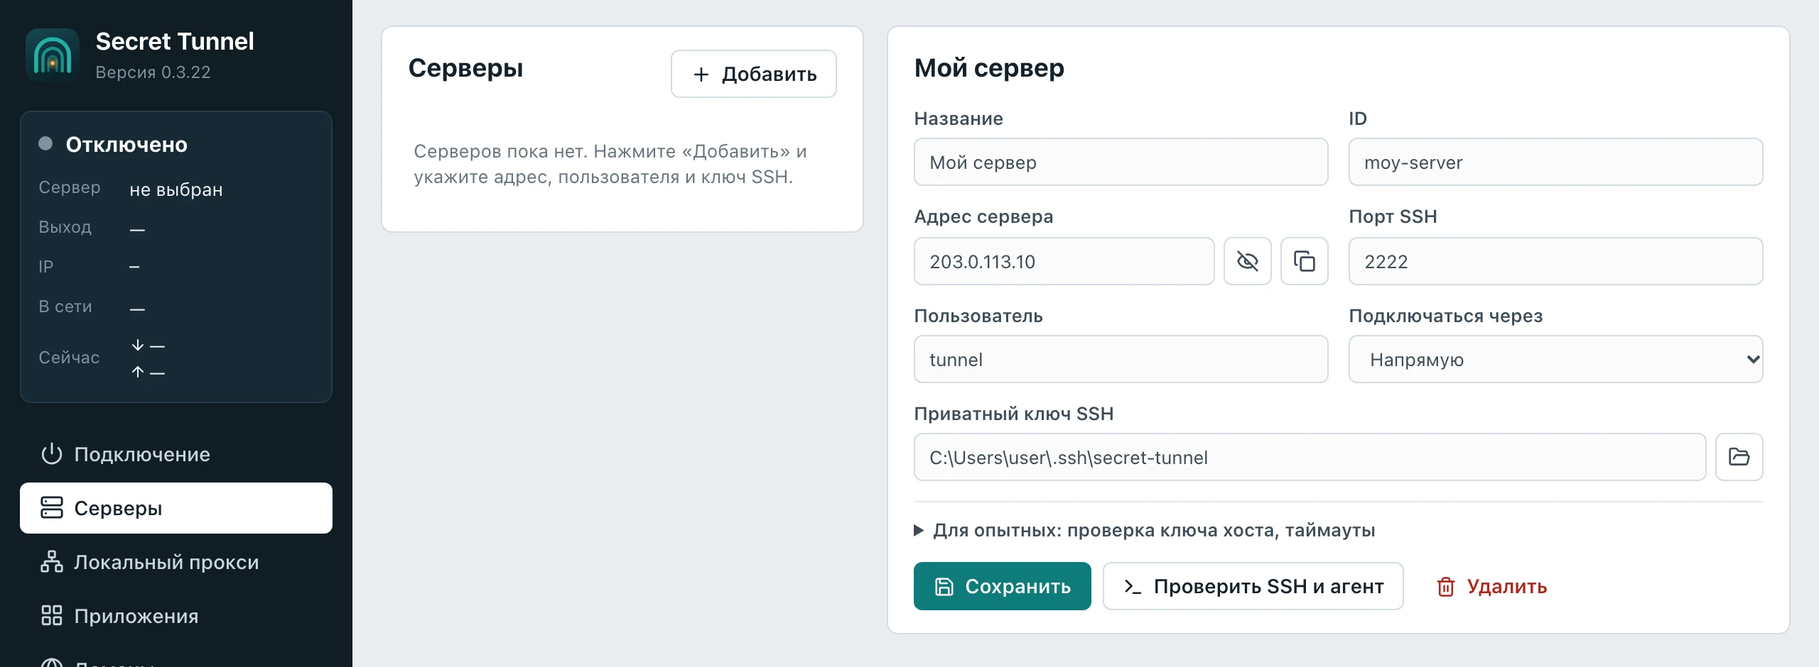
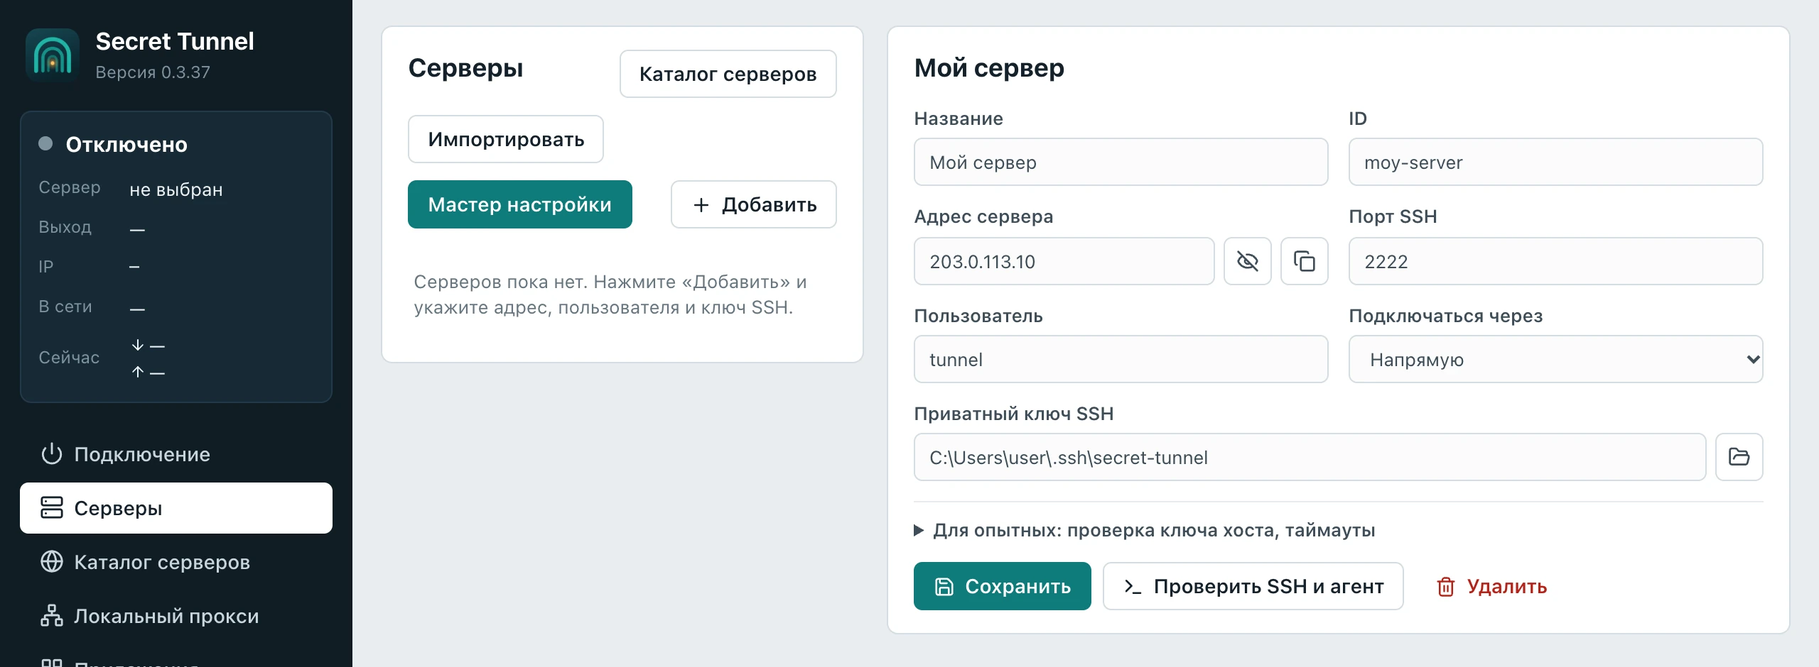
Site from 5c2a27e

diff --git a/knowledge.html b/knowledge.html
@@ -44,9 +44,11 @@
         <li class="group">Начало</li>
         <li><a href="#start">Как это устроено</a></li>
         <li><a href="#server">Сервер</a></li>
+        <li><a href="#hosting-catalog">Каталог серверов</a></li>
         <li><a href="#keys">SSH-ключ</a></li>
         <li><a href="#agent">Агент на сервере</a></li>
         <li><a href="#host-key">Отпечаток сервера</a></li>
+        <li><a href="#profile-transfer">Перенос серверов</a></li>
         <li class="group">Компьютер</li>
         <li><a href="#first-connection">Первое подключение</a></li>
         <li><a href="#servers">Серверы и цепочки</a></li>
@@ -102,6 +104,14 @@
         </ul>
       </article>
 
+      <article class="doc" id="hosting-catalog" data-keywords="хостер провайдер каталог тариф цена VPS пинг задержка страна флаг">
+        <h2><a href="#hosting-catalog">Каталог серверов</a></h2>
+        <p>«Каталог серверов» на компьютере и «Каталог» на Android/Android TV помогает сравнить локации и перейти на сайт хостера. В мастере он открывается через «Пока нет сервера». Флаг обозначает страну сервера; страна компании указана отдельно в подробностях.</p>
+        <p>«Проверить задержку» делает пять коротких TCP-подключений из текущей сети. Результат — медиана, а не ICMP-пинг, скорость передачи или гарантия качества VPS. При включённом туннеле приложения замер недоступен. Перед его остановкой закройте защищаемые программы; другой VPN тоже может влиять на маршрут.</p>
+        <p>Карточка без тестового узла остаётся с ценой и характеристиками, но без задержки. Сайт компании не используется вместо VPS. «Подробнее» показывает источник, дату, налоги, доплаты и ограничения трафика. Отсутствие TCP-ответа не означает недоступность VPS.</p>
+        <p>Семь провайдеров обновляются ежедневно из официальных API и страниц. При отказе источника сохраняются предыдущие факты и дата; ошибки каталога не меняют SSH-профили. «Сайт хостера» открывает заказ у провайдера, а «Сервер уже куплен — настроить SSH» возвращает в мастер. Используйте данные именно купленного сервера. <a href="guide.html#hosting-catalog">Порядок выбора с иллюстрацией</a>.</p>
+      </article>
+
       <article class="doc" id="keys" data-keywords="ssh-keygen ed25519 ключ authorized_keys ssh-copy-id wsl windows команды публичный приватный">
         <h2><a href="#keys">SSH-ключ</a></h2>
         <p>Создайте ключ на компьютере. На вопрос о пароле ключа дважды нажмите Enter. macOS и Linux, Терминал:</p>
@@ -138,7 +148,7 @@ cd st-agent</code></pre></li>
 
       <article class="doc" id="host-key" data-keywords="отпечаток fingerprint known_hosts host key подлинность сервера проверка ключа хоста отклонил">
         <h2><a href="#host-key">Отпечаток сервера</a></h2>
-        <p>Приложение проверяет, что подключается к вашему серверу, а не к подменённому. На компьютере используются записи из <code>~/.ssh/known_hosts</code> — те же, что у обычного <code>ssh</code>. Проще всего один раз зайти на сервер из Терминала и подтвердить ключ.</p>
+        <p>Приложение сверяет ключ SSH-сервера при подключении. «Мастер настройки» сохраняет подтверждённый вами отпечаток в профиле сервера. Профили на компьютере без сохранённого отпечатка используют записи из <code>~/.ssh/known_hosts</code>, как обычный <code>ssh</code>.</p>
         <p>Отпечаток можно сверить на самом сервере:</p>
         <pre><code>ssh-keygen -lf /etc/ssh/ssh_host_ed25519_key.pub</code></pre>
         <p>Режим проверки задаётся в профиле сервера: «Строго» (рекомендуется), «Запомнить новый» — доверить ключу при первом входе, «Не проверять» — только для отладки. На Android отпечаток показывается при первом подключении и сохраняется после вашего подтверждения.</p>
@@ -148,6 +158,7 @@ cd st-agent</code></pre></li>
 
       <article class="doc" id="first-connection" data-keywords="первое подключение начать добавить сервер подключить кнопка">
         <h2><a href="#first-connection">Первое подключение</a></h2>
+        <p>Начать можно с кнопки «Мастер настройки» на экране «Серверы». На Android откройте «Ещё» → «Серверы». Укажите адрес, SSH-порт, пользователя и пароль из письма хостера или выберите приватный ключ без парольной фразы. Сверьте отпечаток сервера в панели хостера и подтвердите его. Мастер проверит вход по ключу и агент. Результаты каждого этапа появятся в журнале мастера, а при ошибке можно исправить данные и повторить попытку.</p>
         <ol>
           <li>Откройте «Серверы» и нажмите «Добавить». Укажите адрес, порт SSH, пользователя и выберите файл приватного ключа.</li>
           <li>Нажмите «Проверить SSH и агент»: приложение войдёт на сервер и проверит агента.</li>
@@ -168,6 +179,19 @@ cd st-agent</code></pre></li>
         </table>
         <p>Список серверов покажет маршрут «SSH-шлюз → Тестовый сервер». Сохраните отдельные профили, если нужно переключаться между прямым подключением и подключением через шлюз.</p>
         <p class="note">Промежуточный сервер добавляет ещё один сетевой участок. Сравните задержку и скорость обоих маршрутов на вкладке <a href="#speed">«Скорость»</a>.</p>
+      </article>
+
+      <article class="doc" id="profile-transfer" data-keywords="перенос импорт экспорт поделиться qr куар код ссылка файл флешка android tv ключ шифрование">
+        <h2><a href="#profile-transfer">Перенос серверов между устройствами</a></h2>
+        <p>В тестовой версии откройте <b>«Серверы» → «Поделиться»</b> у сохранённого сервера. Цепочка включает промежуточные серверы, их ключи и подтверждённые отпечатки. Настройки приложений, правила блокировки трафика и другие предпочтения устройства не переносятся.</p>
+        <table>
+          <tr><th>QR-код</th><td>На телефоне или iPad откройте «Серверы» → «Импортировать» → «Сканировать QR-код». Если большой ключ или цепочка не помещаются в QR, используйте ссылку или файл.</td></tr>
+          <tr><th>Ссылка</th><td>Скопируйте зашифрованную ссылку. На другом устройстве вставьте её в «Импортировать». Мобильное приложение также открывает ссылки <code>secrettunnel://import#stp1.…</code>.</td></tr>
+          <tr><th>Файл</th><td>Сохраните <code>.stprofile</code>. На Android TV подключите флешку и выберите «Серверы» → «Импортировать» → «Открыть файл».</td></tr>
+        </table>
+        <p>Сохраните <b>код переноса</b> отдельно. Он не входит в файл, ссылку и QR-код и исчезает при закрытии окна экспорта. На получателе введите код, проверьте список и нажмите «Добавить серверы». Существующие профили сохранятся; новые получат отдельные ключевые файлы или записи Keystore.</p>
+        <p>Все данные, включая приватные ключи, зашифрованы AES-256-GCM. Argon2id выводит ключ из случайного 20-символьного кода; Base64URL используется для записи шифротекста в ссылку. Перенос не требует сервиса обмена: шифрование, сканирование и расшифровка выполняются на устройствах.</p>
+        <p class="note">Файл или ссылка вместе с кодом дают доступ к SSH-ключу. Передавайте их только доверенному получателю. Перенос создаёт копию ключа: при его отзыве на сервере перестанут работать все копии. Для независимого отзыва создайте отдельный ключ устройства.</p>
       </article>
 
       <article class="doc" id="proxy" data-keywords="локальный прокси socks5 порт 1080 браузер настройка вручную">

diff --git a/guide.html b/guide.html
@@ -54,6 +54,7 @@
         <li class="group">Сервер</li>
         <li><a href="#ssh">Как работает SSH</a></li>
         <li><a href="#need">Что понадобится</a></li>
+        <li><a href="#hosting-catalog">Каталог серверов</a></li>
         <li><a href="#terminal">1. Открыть терминал</a></li>
         <li><a href="#login">2. Войти по паролю</a></li>
         <li><a href="#key">3. Создать ключ</a></li>
@@ -100,8 +101,24 @@
           <li><b>Данные от хостера</b>: IP-адрес, логин (обычно <code>root</code>) и пароль. Обычно они приходят письмом или лежат в панели управления.</li>
           <li><b>Компьютер</b>: macOS 15 или новее, Windows 10 или 11. Для Linux приложения пока нет, но сервер с Linux настраивается так же, как с macOS, — шаги 1–7.</li>
         </ul>
+        <p>Для уже купленного сервера откройте «Серверы» → «Мастер настройки». На Android и iOS этот экран находится в разделе «Ещё». Мастер принимает готовый ключ либо создаёт отдельный ключ после входа по логину и паролю, предлагает подтвердить отпечаток сервера и проверяет агент. Если агент отсутствует, мастер предложит установить его. Ход настройки и ошибки отображаются в журнале мастера.</p>
+        <p>Если сервер уже настроен на другом устройстве, начиная с версии 0.3.33 можно перенести его через <b>«Серверы» → «Поделиться»</b>: QR-кодом, ссылкой или зашифрованным файлом <code>.stprofile</code>. На принимающем устройстве выберите <b>«Импортировать»</b> и введите отдельный код переноса. Для Android TV сохраните файл на флешку и откройте его через системный выбор документов. <a href="knowledge.html#profile-transfer">Как защищён перенос и что в него входит</a>.</p>
         <p>Мы сделаем на сервере четыре вещи: вход по ключу вместо пароля, отдельного пользователя <code>tunnel</code> для туннеля, порт SSH <code>2222</code> вместо стандартного <code>22</code> и небольшой агент, через который пойдёт трафик.</p>
         <p class="note">Во всех командах вместо <code class="v-ip">203.0.113.10</code> должен стоять адрес вашего сервера. <span class="site-only">Впишите его в поле «Адрес сервера от хостера», и он подставится сам.</span></p>
+      </article>
+
+      <article class="doc" id="hosting-catalog">
+        <h2><a href="#hosting-catalog">Если VPS ещё нет: каталог серверов</a></h2>
+        <p>На компьютере откройте <b>«Каталог серверов»</b> в боковом меню; на Android — вкладку <b>«Каталог»</b>, на Android TV — одноимённый пункт меню. В мастере настройки нажмите <b>«Пока нет сервера»</b>. На мобильных устройствах «Статистика» находится в «Ещё».</p>
+        <ol>
+          <li>Выберите страну сервера. Флаг обозначает расположение VPS, а не страну компании. В карточке видны месячная цена, CPU, память, диск и заявленная скорость порта; налоги, доплаты и лимиты — в «Подробнее».</li>
+          <li>Закройте защищаемые приложения, затем остановите свой туннель перед замером. После остановки защита от прямого трафика может прекратиться. Нажмите <b>«Проверить задержку»</b>: приложение делает пять коротких TCP-подключений из текущей сети. Другой VPN может изменить результат. Это не ICMP-пинг и не проверка пропускной способности.</li>
+          <li>Включите <b>«Сначала с меньшей задержкой»</b> для сравнения. Если нет подтверждённого тестового узла, карточка остаётся с отметкой <b>«Нет узла / замер недоступен»</b>. Таймаут тестового порта не доказывает недоступность VPS.</li>
+          <li><b>«Сайт хостера»</b> открывает сайт провайдера. Покупка происходит у него; окончательные цены, наличие, условия доступа и оплаты проверьте перед заказом.</li>
+          <li>Получив фактические данные сервера, нажмите <b>«Сервер уже куплен — настроить SSH»</b>. Мастер продолжит с выбора способа входа. Публичные тестовые адреса не предназначены для настройки вашего SSH-подключения.</li>
+        </ol>
+        <figure class="shot"><img src="assets/guide/hosting-catalog.webp" width="1280" height="800" alt="Каталог серверов: фильтры стран, карточки хостеров, цены и проверка задержки"><figcaption>Пример интерфейса. Список и тарифы обновляются отдельно от приложения; скорость порта не гарантирует скорость SSH.</figcaption></figure>
+        <p>Каталог обновляется ежедневно из официальных источников. <b>«Обновить каталог»</b> загружает опубликованные данные. Ошибка сети или источника сохраняет последнюю корректную копию и дату проверки конкретного тарифа.</p>
       </article>
 
       <p class="part">Сервер</p>
@@ -336,8 +353,8 @@ PASS STMUX003: TCP half-close; empty/voice/51200-byte UDP; 24 isolated associati
       <article class="doc step" id="add-server">
         <h2><a href="#add-server">9. Добавьте сервер</a></h2>
         <p>Откройте вкладку «Серверы» и нажмите «Добавить».</p>
-        <figure class="shot" data-shot="server-form-mac" data-pins="36.89,11.06;71.33,24.34;95.23,24.34;65.08,39.06;95.23,39.06;71.33,53.78;92.73,53.78;92.11,68.5;96.95,68.5;50.23,87.9;77.2,87.9" data-os="mac linux"><img src="assets/guide/server-form-mac.webp" width="1280" height="470" alt="Вкладка «Серверы»: форма нового сервера с заполненными полями"></figure>
-        <figure class="shot" data-shot="server-form-win" data-pins="36.89,11.06;71.33,24.34;95.23,24.34;65.08,39.06;95.23,39.06;71.33,53.78;92.73,53.78;92.11,68.5;96.95,68.5;50.23,87.9;77.2,87.9" data-os="win"><img src="assets/guide/server-form-win.webp" width="1280" height="470" alt="Вкладка «Серверы» в Windows: форма нового сервера с путём к ключу C:\Users\user\.ssh\secret-tunnel"></figure>
+        <figure class="shot" data-shot="server-form-mac" data-pins="45.10,30.64;70.77,24.34;94.67,24.34;65.14,39.06;94.67,39.06;70.77,53.78;94.67,53.78;89.47,68.50;96.69,68.50;59.01,87.90;75.54,87.90" data-os="mac linux"><img src="assets/guide/server-form-mac.webp" width="1280" height="470" alt="Вкладка «Серверы»: форма нового сервера с заполненными полями"></figure>
+        <figure class="shot" data-shot="server-form-win" data-pins="45.10,30.64;70.77,24.34;94.67,24.34;65.14,39.06;94.67,39.06;70.77,53.78;94.67,53.78;89.47,68.50;96.69,68.50;59.01,87.90;75.54,87.90" data-os="win"><img src="assets/guide/server-form-win.webp" width="1280" height="470" alt="Вкладка «Серверы» в Windows: форма нового сервера с путём к ключу C:\Users\user\.ssh\secret-tunnel"></figure>
         <ol class="legend">
           <li><b>Добавить</b> — открывает пустую форму справа.</li>
           <li><b>Название</b> — любое, оно видно только вам: «Мой сервер», «Нидерланды».</li>

diff --git a/setup-for-ai.md b/setup-for-ai.md
@@ -21,6 +21,12 @@ Secret Tunnel ведёт трафик выбранных программ чер
 
 ## Start here: что спросить
 
+В приложении есть «Мастер настройки» на экране «Серверы» (Android и iOS — «Ещё» → «Серверы»). Для уже купленного сервера он принимает готовый ключ либо создаёт отдельный ключ после входа по логину и паролю. Пользователь подтверждает отпечаток сервера, затем мастер проверяет ключ и агент и при необходимости предлагает установку агента. Каждый этап виден в журнале мастера. На обычном сервере с входом по паролю терминал для этой настройки не требуется.
+
+В тестовой ветке доступен перенос: у сохранённого сервера нажмите «Поделиться». Можно показать QR-код, скопировать ссылку `secrettunnel://import#stp1.…` или сохранить файл `.stprofile`. На другом устройстве откройте «Серверы» → «Импортировать», сканируйте QR/вставьте ссылку/откройте файл, введите отдельный код переноса и подтвердите список. Android TV открывает файл с флешки через системный выбор документов. Цепочки переносятся вместе с промежуточными серверами. Существующие профили и выбор приложений не заменяются.
+
+Перенос зашифрован AES-256-GCM, ключ выводится Argon2id из случайного 20-символьного кода. Base64URL кодирует уже зашифрованные данные. Код не входит в QR, ссылку или файл и не сохраняется приложением: его нужно сохранить и передать отдельно. Ссылка/файл вместе с кодом дают доступ к SSH-ключу; не просите пользователя публиковать их в чате. Перенос копирует ключ: отзыв ключа на сервере отключает все его копии. После импорта можно создать отдельный ключ устройства.
+
 1. На каком устройстве настраиваем: macOS, Windows, Android или Android TV? (можно несколько)
 2. Есть ли уже сервер (VPS) на Linux? Нужны: адрес (IP или имя), порт SSH (по умолчанию 22), имя пользователя. Как пользователь сейчас входит на сервер: по паролю или по ключу?
 3. Нужен ли промежуточный сервер (цепочка, например «SSH-шлюз → Тестовый сервер»)? Если да — те же данные для него.
@@ -29,6 +35,24 @@ Secret Tunnel ведёт трафик выбранных программ чер
 Дальше идите по шагам. Шаги 1–4 делаются один раз на сервер. Если хостер выдал только логин `root` и пароль, сначала пройдите «Шаг 0».
 
 Человеку удобнее та же инструкция с картинками и кнопками копирования: https://openm1ke.github.io/Secret-Tunnel/guide.html — можно дать ссылку на нужный шаг (`#login`, `#key`, `#harden`, `#agent`, `#add-server`, `#apps`).
+
+## Если сервер ещё не куплен
+
+Предложите «Каталог серверов» на компьютере или «Каталог» на Android/Android TV.
+В мастере он открывается через «Пока нет сервера». Флаг обозначает локацию VPS;
+цены, ограничения и даты доступны в карточках. Данные обновляются отдельно от
+приложения, при ошибках сохраняется последняя корректная копия.
+
+«Проверить задержку» измеряет медиану пяти TCP-подключений из сети устройства,
+а не ICMP-пинг и не пропускную способность. Перед остановкой туннеля ради
+замера нужно закрыть защищаемые приложения: после остановки защита может
+прекратиться. Не отключайте сторонний VPN без согласования с пользователем.
+Карточки без подтверждённого узла показываются без сетевого замера.
+Не подменяйте проверку VPS пингом сайта компании и не обещайте скорость по тарифу.
+
+Покупка выполняется у хостера. Не покупайте VPS за пользователя и не подставляйте
+публичный тестовый IP в SSH-профиль. После получения настоящего адреса и данных
+для входа используйте «Сервер уже куплен — настроить SSH».
 
 ## Шаг 0. Сервер с паролем root: ключ, пользователь, порт
 
